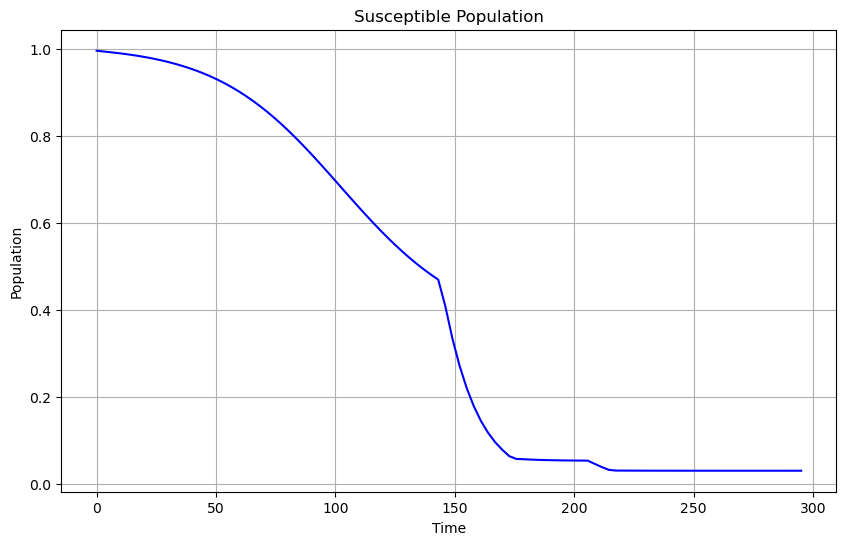
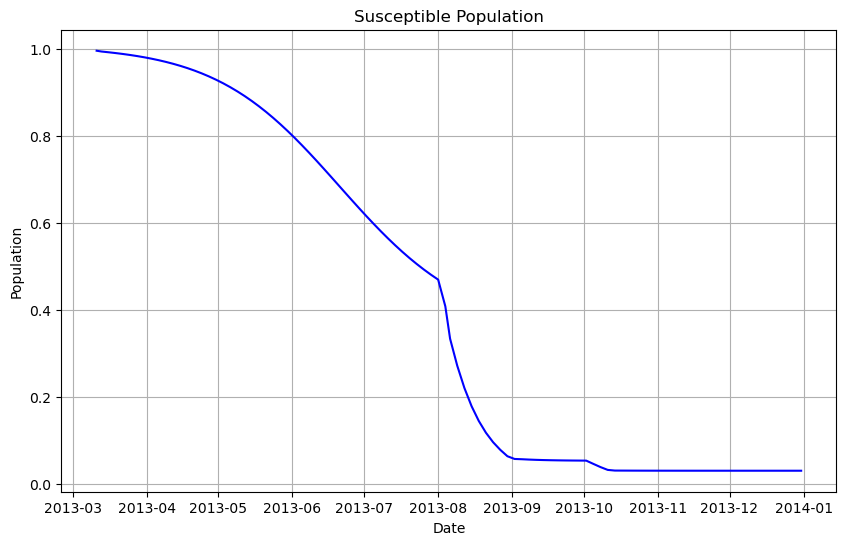
renamed test3.py to model_sim.py. Also changed graphs to display year-month

diff --git a/model_sim.py b/model_sim.py
@@ -2,6 +2,8 @@ import numpy as np
 from scipy.integrate import solve_ivp
 import matplotlib.pyplot as plt
 import math
+import matplotlib.dates as mdates
+from datetime import datetime, timedelta
 
 
 
@@ -131,77 +133,122 @@ Io_values = IOT_values + IOV_values
 y_w = calculate_y(sewage_scaling_w, IW_values)
 y_o = calculate_y(sewage_scaling_o, Io_values)
 
+# Define start and end dates
+start_date = datetime(2013, 3, 11)
+end_date = datetime(2013, 12, 31)
+
+# Convert numerical values of t_values to dates
+num_days = 295
+date_range = [start_date + timedelta(days=int(t)) for t in np.linspace(0, num_days, len(t_values))]
+
+
 # Plotting and saving each variable separately
 
 # Plot S
 plt.figure(figsize=(10, 6))
-plt.plot(t_values, S_values, color='blue')
-plt.xlabel('Time')
+plt.plot(date_range, S_values, color='blue')
+plt.xlabel('Date')
 plt.ylabel('Population')
 plt.title('Susceptible Population')
 plt.grid(True)
+
+# Set date format on x-axis
+date_format = mdates.DateFormatter('%Y-%m')
+plt.gca().xaxis.set_major_formatter(date_format)
+plt.gca().xaxis.set_major_locator(mdates.MonthLocator())
+
 plt.savefig('S_plot.png', bbox_inches='tight')
 plt.close()
 
 # Plot IW, IOT, and IOV
 plt.figure(figsize=(10, 6))
-plt.plot(t_values, IW_values, color='green', label='IW')
-plt.plot(t_values, IOT_values, color='orange', label='IOT')
-plt.plot(t_values, IOV_values, color='blue', label='IOV')
-plt.xlabel('Time')
+plt.plot(date_range, IW_values, color='green', label='IW')
+plt.plot(date_range, IOT_values, color='orange', label='IOT')
+plt.plot(date_range, IOV_values, color='blue', label='IOV')
+plt.xlabel('Date')
 plt.ylabel('Population')
 plt.title('Infected Population')
 plt.legend()
 plt.grid(True)
+
+# Set date format on x-axis
+date_format = mdates.DateFormatter('%Y-%m')
+plt.gca().xaxis.set_major_formatter(date_format)
+plt.gca().xaxis.set_major_locator(mdates.MonthLocator())
+
 plt.savefig('Infected_plot.png', bbox_inches='tight')
 plt.close()
 
 # Plot EW, EOT, and EOV
 plt.figure(figsize=(10, 6))
-plt.plot(t_values, EW_values, color='green', label='EW')
-plt.plot(t_values, EOT_values, color='orange', label='EOT')
-plt.plot(t_values, EOV_values, color='blue', label='EOV')
-plt.xlabel('Time')
+plt.plot(date_range, EW_values, color='green', label='EW')
+plt.plot(date_range, EOT_values, color='orange', label='EOT')
+plt.plot(date_range, EOV_values, color='blue', label='EOV')
+plt.xlabel('Date')
 plt.ylabel('Population')
 plt.title('Exposed Population')
 plt.legend()
 plt.grid(True)
+
+# Set date format on x-axis
+date_format = mdates.DateFormatter('%Y-%m')
+plt.gca().xaxis.set_major_formatter(date_format)
+plt.gca().xaxis.set_major_locator(mdates.MonthLocator())
+
 plt.savefig('Exposed_plot.png', bbox_inches='tight')
 plt.close()
 
 # Plot RW, ROT, and ROV
 plt.figure(figsize=(10, 6))
-plt.plot(t_values, RW_values, color='green', label='RW')
-plt.plot(t_values, ROT_values, color='orange', label='ROT')
-plt.plot(t_values, ROV_values, color='blue', label='ROV')
-plt.xlabel('Time')
+plt.plot(date_range, RW_values, color='green', label='RW')
+plt.plot(date_range, ROT_values, color='orange', label='ROT')
+plt.plot(date_range, ROV_values, color='blue', label='ROV')
+plt.xlabel('Date')
 plt.ylabel('Population')
 plt.title('Recovered Population')
 plt.legend()
 plt.grid(True)
+
+# Set date format on x-axis
+date_format = mdates.DateFormatter('%Y-%m')
+plt.gca().xaxis.set_major_formatter(date_format)
+plt.gca().xaxis.set_major_locator(mdates.MonthLocator())
+
 plt.savefig('Recovered_plot.png', bbox_inches='tight')
 plt.close()
 
 # Plot y_w
 plt.figure(figsize=(10, 6))
-plt.plot(t_values, y_w, color='blue')
-plt.xlabel('Time')
+plt.plot(date_range, y_w, color='blue')
+plt.xlabel('Date')
 plt.ylabel('PCR Cycle Threshold')
-plt.title('WPV1 PCR Cycle Threshold vs Time')
+plt.title('WPV1 PCR Cycle Threshold vs Date')
 plt.grid(True)
 plt.gca().invert_yaxis()  # Invert the y-axis
 plt.ylim(60, 20)  # Set y-axis limits from 20 to 60
+
+# Set date format on x-axis
+date_format = mdates.DateFormatter('%Y-%m')
+plt.gca().xaxis.set_major_formatter(date_format)
+plt.gca().xaxis.set_major_locator(mdates.MonthLocator())
+
 plt.savefig('yw_plot.png', bbox_inches='tight')
 plt.close()
 
 # Plot y_o
 plt.figure(figsize=(10, 6))
-plt.plot(t_values, y_o, color='blue')
-plt.xlabel('Time')
+plt.plot(date_range, y_o, color='blue')
+plt.xlabel('Date')
 plt.ylabel('PCR Cycle Threshold')
-plt.title('OPV1 PCR Cycle Threshold vs Time')
+plt.title('OPV1 PCR Cycle Threshold vs Date')
 plt.grid(True)
 plt.gca().invert_yaxis()  # Invert the y-axis
 plt.ylim(60, 20)  # Set y-axis limits from 20 to 60
+
+# Set date format on x-axis
+date_format = mdates.DateFormatter('%Y-%m')
+plt.gca().xaxis.set_major_formatter(date_format)
+plt.gca().xaxis.set_major_locator(mdates.MonthLocator())
+
 plt.savefig('yo_plot.png', bbox_inches='tight')
 plt.close()
